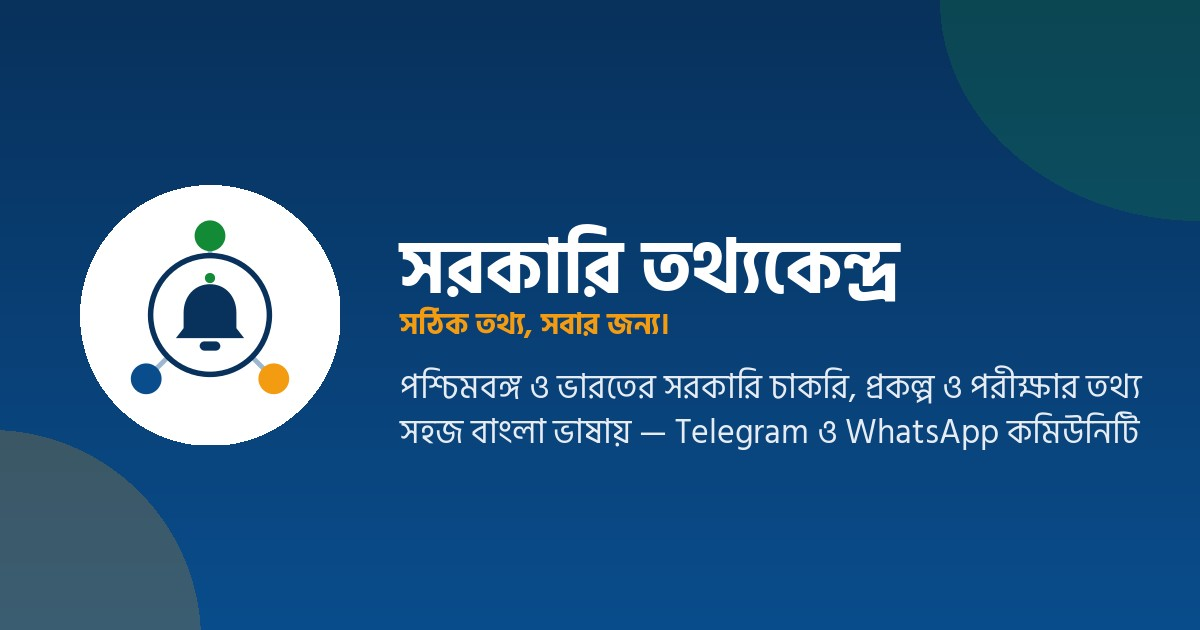
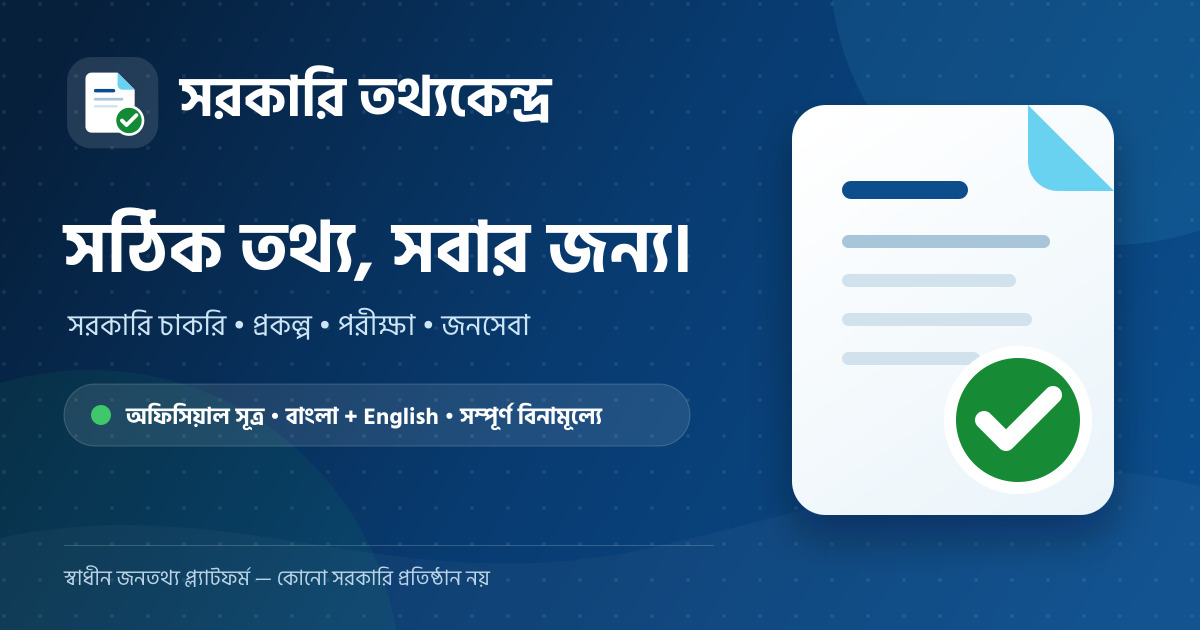
Add Sarkari Tathya Kendra brand identity
Add the verified-information logo, favicon set, Bengali sharing card, manifest and Mahammad Sad author metadata.

diff --git a/src/utils/constants.ts b/src/utils/constants.ts
@@ -13,6 +13,13 @@ export const SITE = {
   basePath: '/sarkari-tathya-kendra/',
   logo: '/sarkari-tathya-kendra/assets/logo-mark.svg',
   ogImage: '/sarkari-tathya-kendra/assets/og-image.jpg',
+  author: {
+    name: 'Mahammad Sad',
+    role: 'Programmer and Mathematician',
+    bio: 'Interested in AI automation, technology, business, startups, investing and computer science.',
+    email: 'contact.mahammadsad@gmail.com',
+    github: 'https://github.com/mahammadsad',
+  },
 };
 
 export const ADS = {
